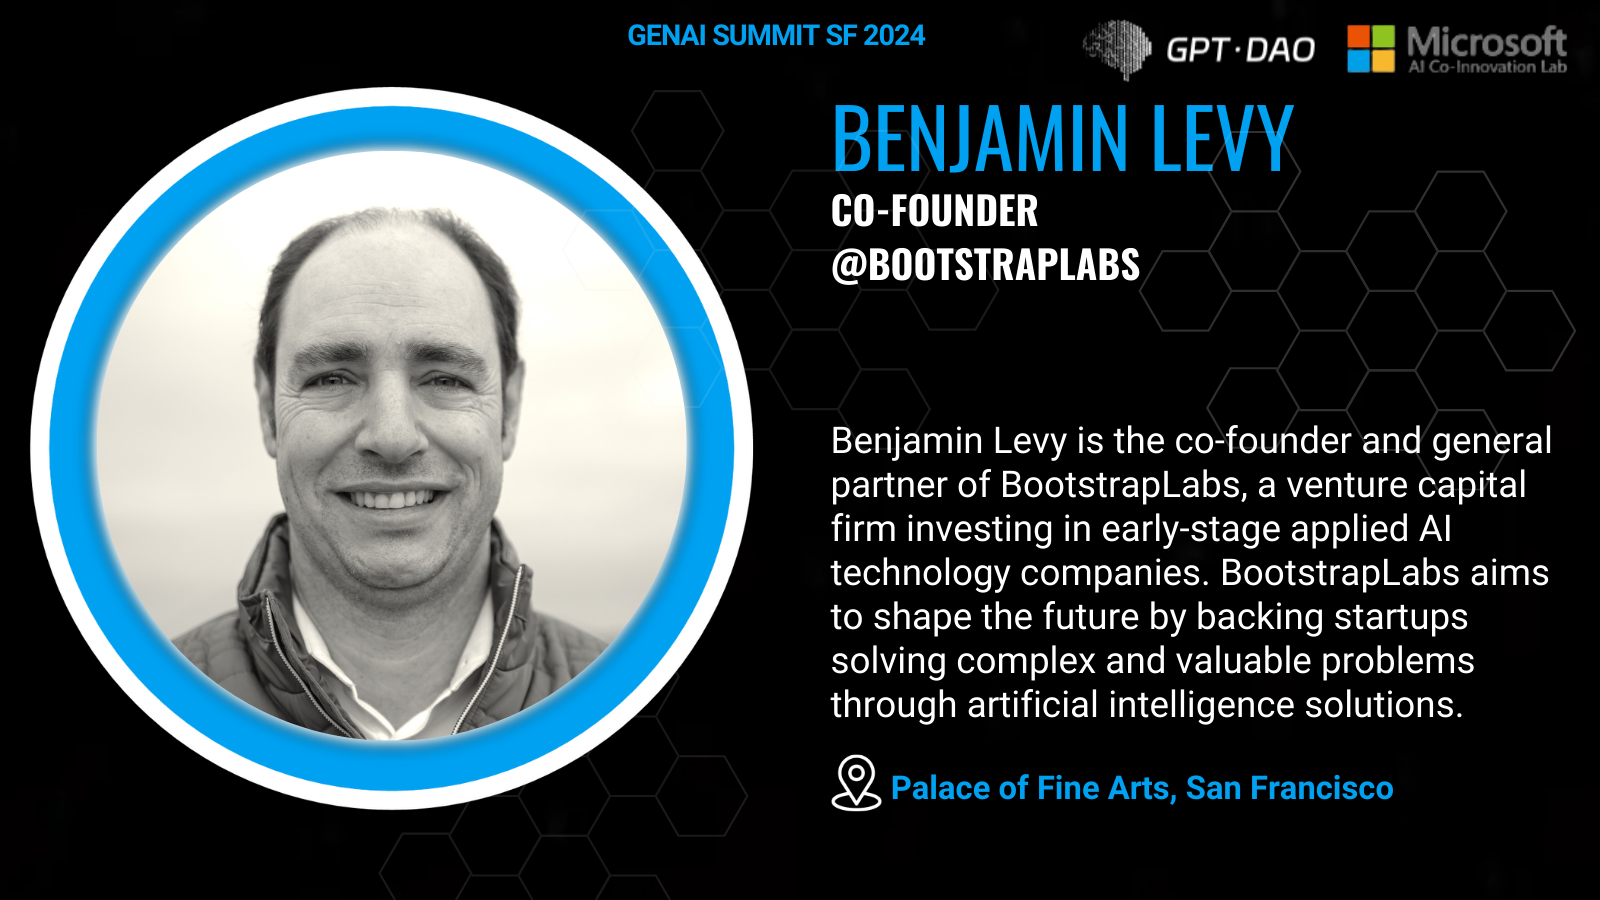
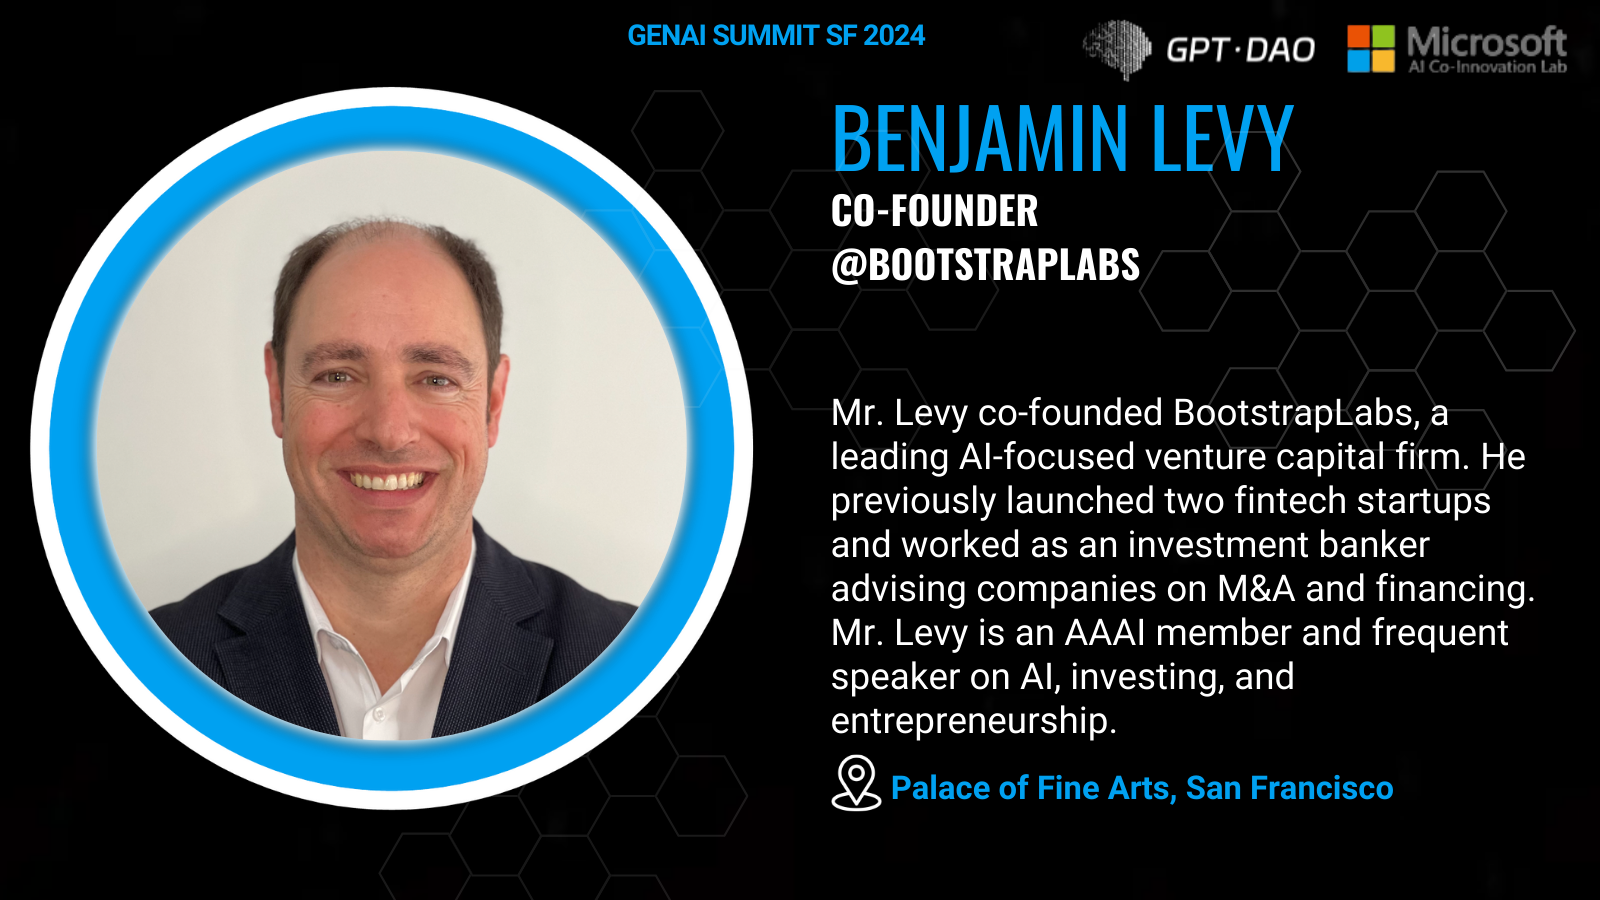
update speaker info

Changed region(s): [[0.0625, 0.1556, 0.4375, 0.84], [0.5, 0.4356, 0.9688, 0.84], [0.0625, 0.5289, 0.125, 0.5911]]

diff --git a/summit/src/utils/speaker.js b/summit/src/utils/speaker.js
@@ -971,7 +971,7 @@ const speaker = [
     twitter: 'https://twitter.com/benlevy74?lang=en',
     linkedin: 'https://www.linkedin.com/in/benjamin-levy-415191/',
     detail: benjaminlevy2,
-    description: `Benjamin Levy is the co-founder and general partner of BootstrapLabs, a venture capital firm investing in early-stage applied AI technology companies. BootstrapLabs aims to shape the future by backing startups solving complex and valuable problems through artificial intelligence solutions.`,
+    description: `Mr. Levy co-founded BootstrapLabs, a leading AI-focused venture capital firm. He previously launched two fintech startups and worked as an investment banker advising companies on M&A and financing. Mr. Levy is an AAAI member and frequent speaker on AI, investing, and entrepreneurship.`,
   },
   {
     name: 'Cheng Chi',
